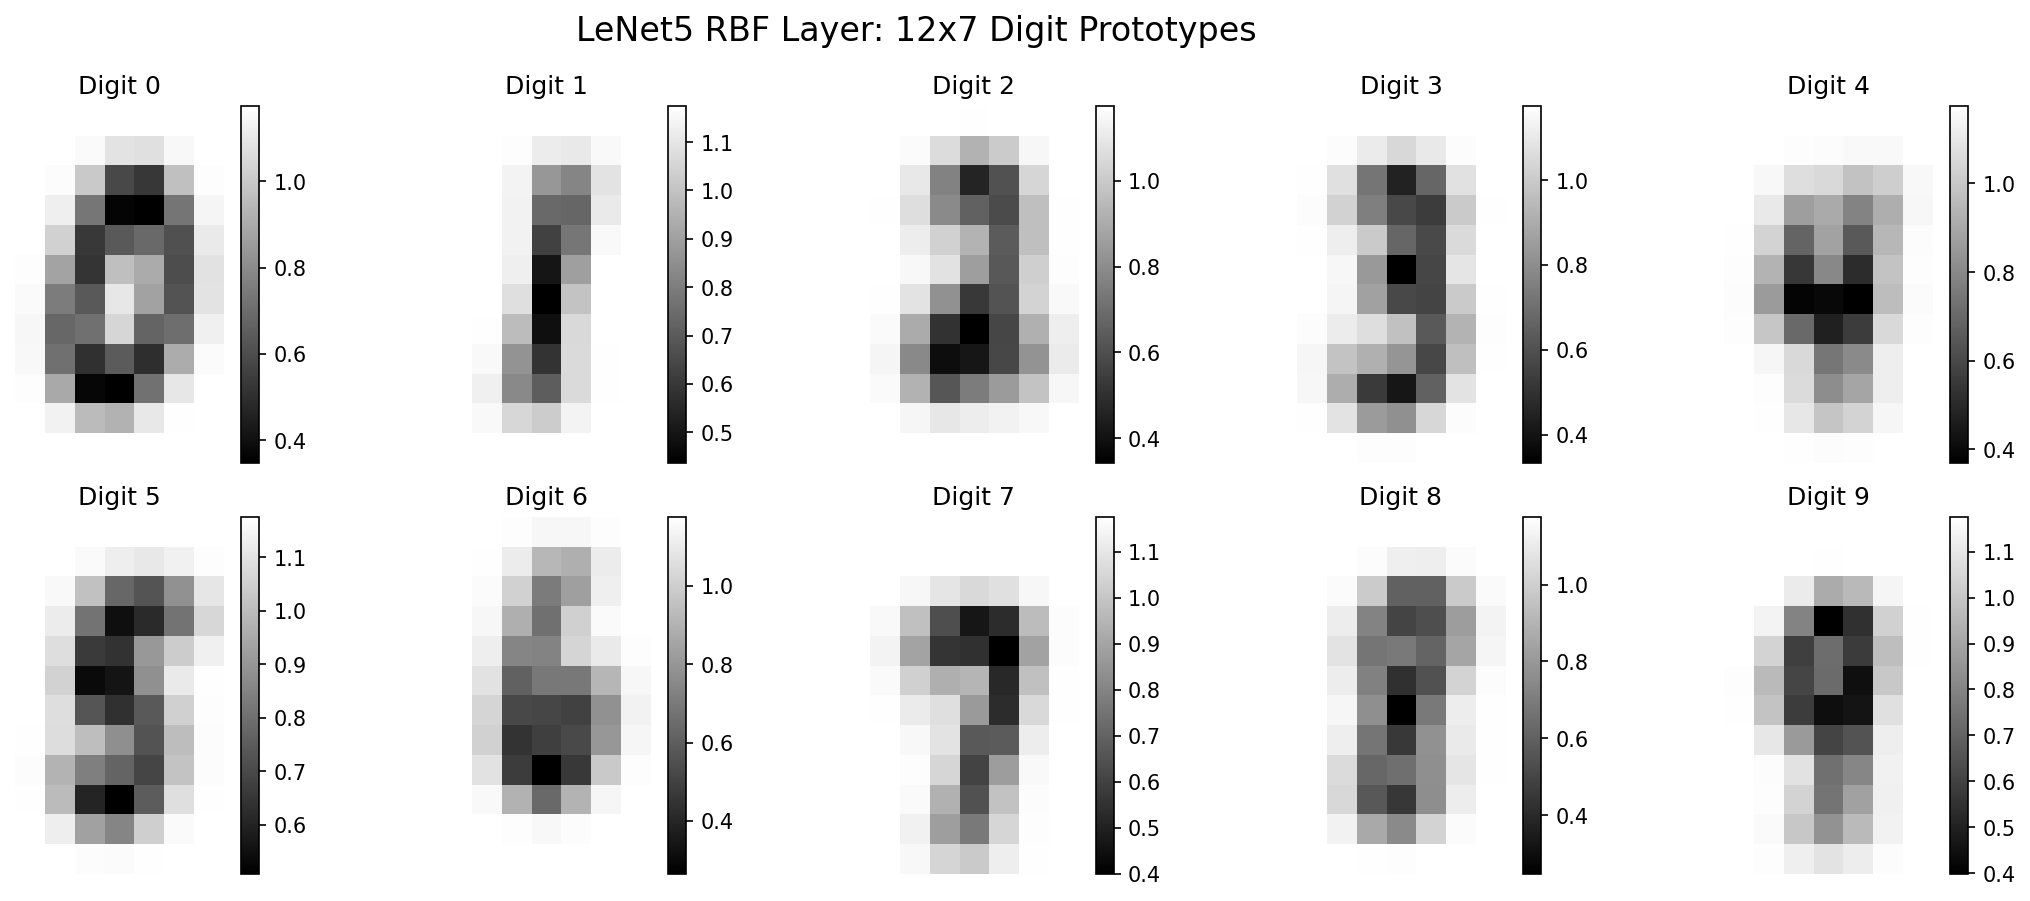
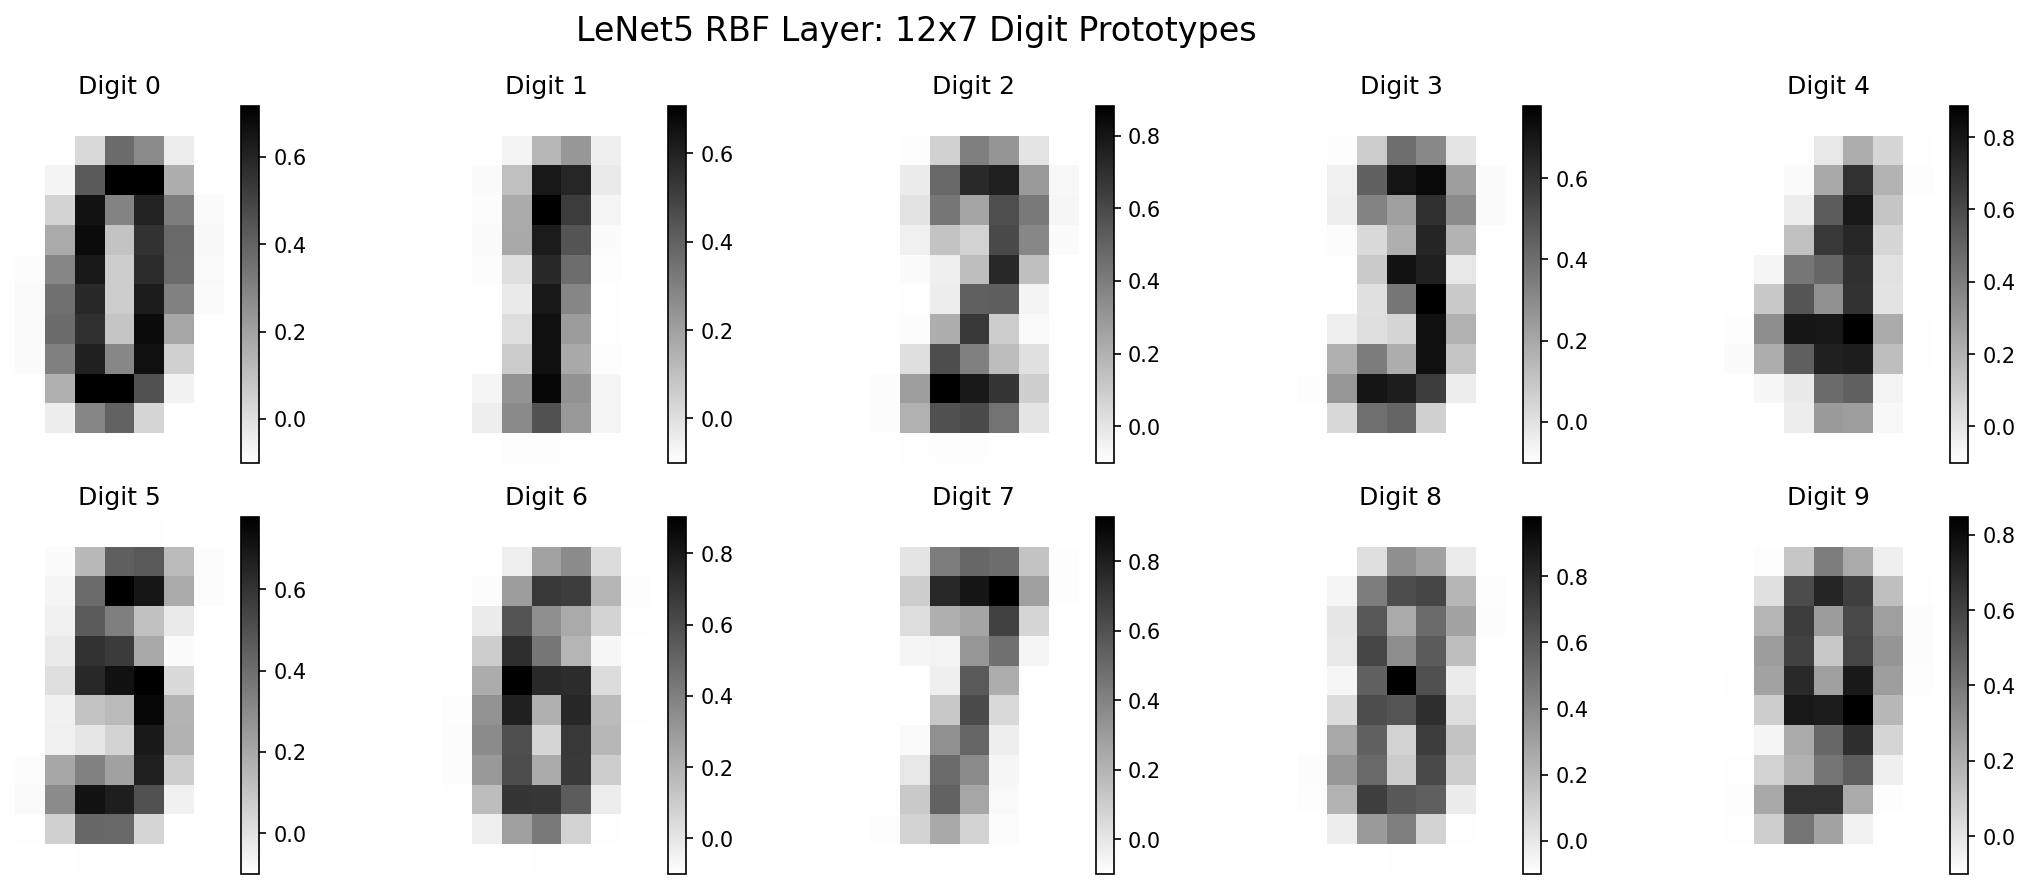
used correct dataset

diff --git a/lenet1/lenet1.py b/lenet1/lenet1.py
@@ -7,6 +7,7 @@ import torch
 import torch.nn as nn
 import torchvision
 import torchvision.transforms as transforms
+import os
 
 
 class TanhScaled(nn.Module):
@@ -14,38 +15,51 @@ class TanhScaled(nn.Module):
         return 1.7159 * torch.tanh((2.0 / 3.0) * x)
 
 def load_digit_codes():
-    # Load MNIST training data
-    splits = {'train': 'mnist/train-00000-of-00001.parquet'}
-    df_train = pd.read_parquet("hf://datasets/ylecun/mnist/" + splits["train"])
+    
+    # Path to the digits dataset
+    data_root = os.path.join(os.path.dirname(__file__), "digits updated")
     
     # Initialize accumulator for mean images per digit
-    digit_sums = {i: np.zeros((28, 28), dtype=np.float64) for i in range(10)}
-    digit_counts = {i: 0 for i in range(10)}
+    digit_sums = {i: [] for i in range(10)}
     
-    # Accumulate all images for each digit - binarize BEFORE averaging
-    for idx, row in df_train.iterrows():
-        label = row['label']
+    # Load and binarize images for each digit
+    for digit in range(10):
+        digit_dir = os.path.join(data_root, str(digit))
         
-        # Load image from bytes
-        image_bytes = row['image.bytes']
-        image = Image.open(BytesIO(image_bytes))
+        # Use first 100 images per digit (or all if less than 100)
+        image_files = sorted(os.listdir(digit_dir))[:100]
         
-        # Convert PIL image to numpy array
-        img_array = np.array(image, dtype=np.float64)
-        
-        # Binarize individual images: pixels < 128 -> 0, else -> 255
-        img_binarized = np.where(img_array < 128, 0, 255).astype(np.float64)
-        
-        digit_sums[label] += img_binarized
-        digit_counts[label] += 1
+        for img_file in image_files:
+            if img_file.startswith('.'):  # Skip hidden files
+                continue
+                
+            img_path = os.path.join(digit_dir, img_file)
+            
+            try:
+                # Load image
+                img = Image.open(img_path).convert('L')
+                
+                # Binarize: pixels < 128 -> 0, else -> 255
+                img_array = np.array(img, dtype=np.float32)
+                img_binarized = np.where(img_array < 128, 0, 255)
+                
+                digit_sums[digit].append(img_binarized)
+            except Exception as e:
+                print(f"Error loading {img_path}: {e}")
+                continue
     
     # Compute mean and resize to 12x7
     mu = torch.zeros(10, 84)
     resize_transform = transforms.Resize((12, 7), antialias=True)
     
     for digit in range(10):
-        # Compute mean of binarized images
-        mean_img = digit_sums[digit] / digit_counts[digit]
+        if len(digit_sums[digit]) == 0:
+            print(f"Warning: No images found for digit {digit}")
+            continue
+            
+        # Stack and compute mean of binarized images
+        stacked = np.stack(digit_sums[digit])
+        mean_img = np.mean(stacked, axis=0)
         
         # Convert to tensor and add channel dimension
         mean_tensor = torch.from_numpy(mean_img).float().unsqueeze(0)
@@ -151,7 +165,7 @@ def visualize_digit_codes(save_path='digit_bitmaps.png'):
         bitmap = mu_codes[digit].reshape(12, 7).numpy()
         
         # Display
-        im = ax.imshow(bitmap, cmap='gray', interpolation='nearest')
+        im = ax.imshow(bitmap, cmap='gray_r', interpolation='nearest')
         ax.set_title(f'Digit {digit}', fontsize=12)
         ax.axis('off')
         

diff --git a/data.py b/data.py
@@ -6,3 +6,9 @@ df_train = pd.read_parquet("hf://datasets/ylecun/mnist/" + splits["train"])
 df_test = pd.read_parquet("hf://datasets/ylecun/mnist/" + splits["test"])
 
 
+import kagglehub
+
+# Download latest version
+path = kagglehub.dataset_download("karnikakapoor/digits")
+
+print("Path to dataset files:", path)
